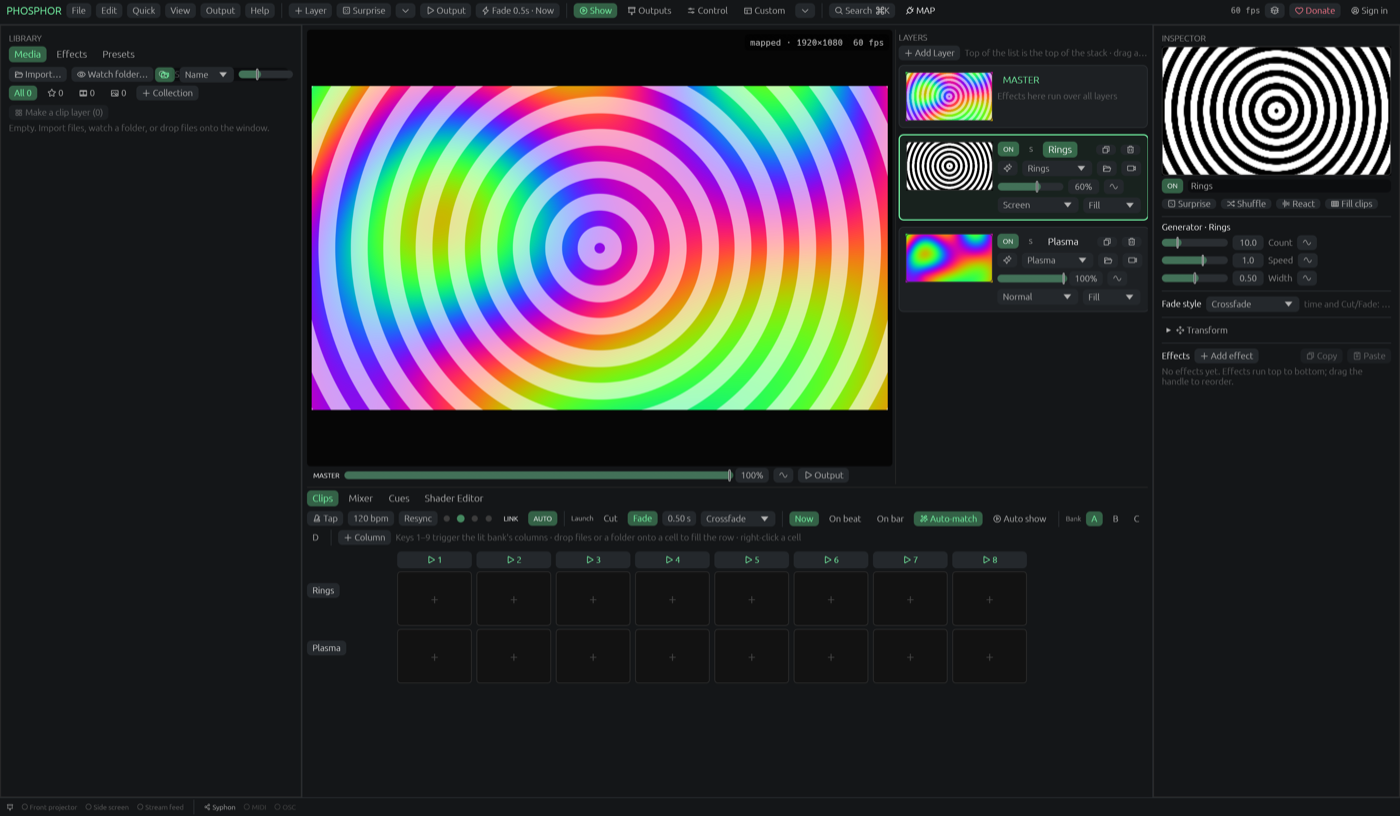
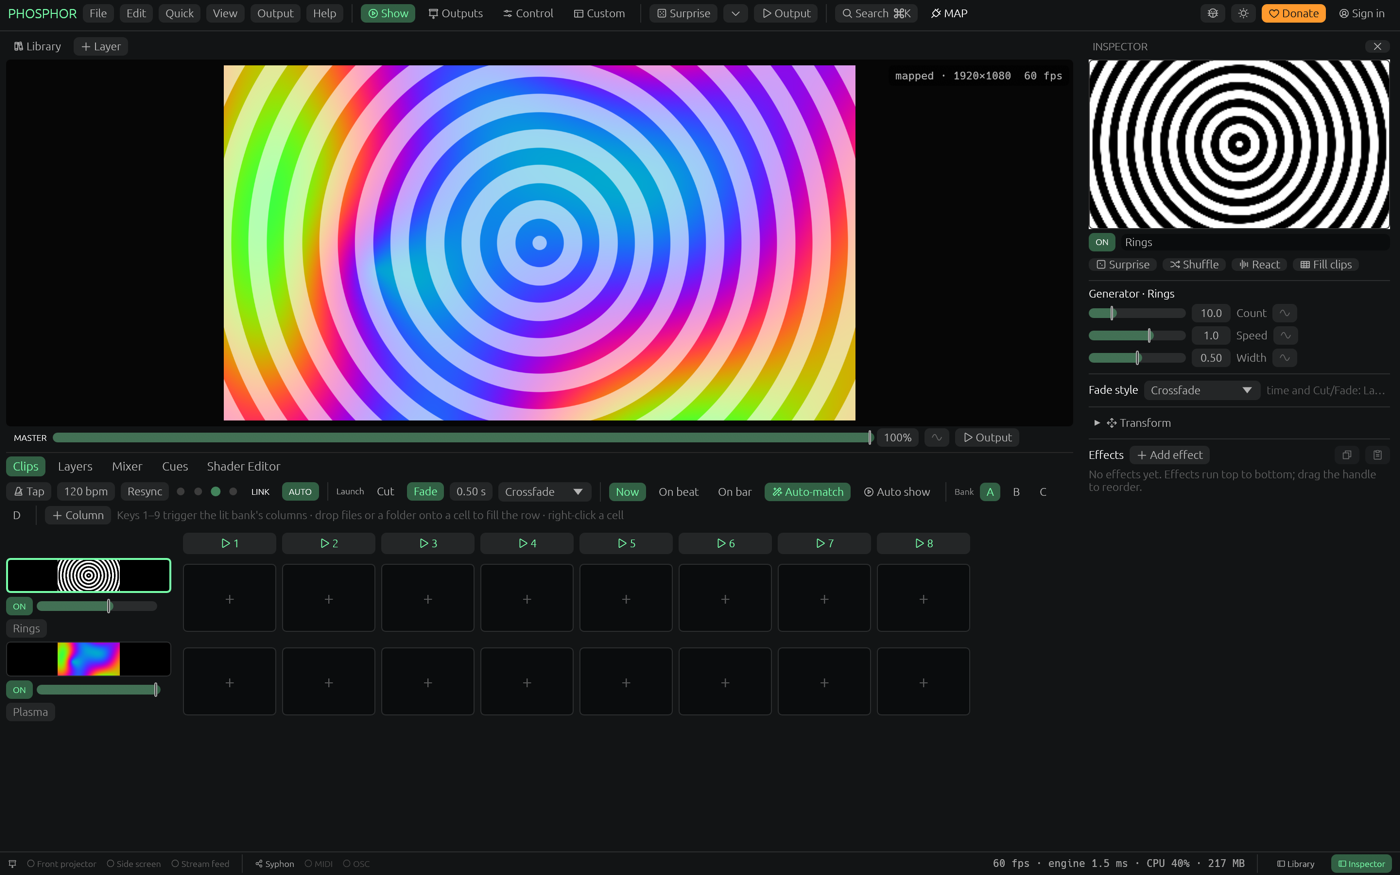
0.2.57: concise Show (preview + clip rows that are the layers: picture, ON, opacity), Inspector only when selected, Library drawer, Outputs/Control full-screen modes with Done; media View menu

diff --git a/crates/phosphor/src/app/areas.rs b/crates/phosphor/src/app/areas.rs
@@ -9,14 +9,14 @@ use super::PhosphorApp;
 use crate::panels::{self, Tab};
 
 /// Which tabs each area's stage shows under its main view (the first is the default).
-const SHOW_BOTTOM: &[Tab] = &[Tab::Clips, Tab::Mixer, Tab::Cues, Tab::ShaderEditor];
+const SHOW_BOTTOM: &[Tab] = &[Tab::Clips, Tab::Layers, Tab::Mixer, Tab::Cues, Tab::ShaderEditor];
 const OUTPUTS_BOTTOM: &[Tab] = &[Tab::Output, Tab::Stream, Tab::Network, Tab::Leds, Tab::Audio, Tab::Devices];
 const LIBRARY: &[Tab] = &[Tab::Media, Tab::Library, Tab::Presets];
 
 /// Where a panel lives in the areas: (area, sub-tab group it belongs to).
 pub(crate) fn area_of(tab: Tab) -> Option<usize> {
     match tab {
-        Tab::Preview | Tab::Layers | Tab::Inspector => Some(0),
+        Tab::Preview | Tab::Inspector => Some(0),
         t if SHOW_BOTTOM.contains(&t) => Some(0),
         Tab::Studio | Tab::Mapping => Some(1),
         t if OUTPUTS_BOTTOM.contains(&t) => Some(1),
@@ -38,7 +38,8 @@ pub(crate) struct AreaTabs {
 
 impl Default for AreaTabs {
     fn default() -> Self {
-        Self { library: Tab::Media, show_bottom: Tab::Clips, outputs_bottom: Tab::Output, show_library: true, show_inspector: true }
+        // The Library is a drawer (closed until you open it); the Inspector shows while something is selected.
+        Self { library: Tab::Media, show_bottom: Tab::Clips, outputs_bottom: Tab::Output, show_library: false, show_inspector: true }
     }
 }
 
@@ -66,45 +67,75 @@ fn heading(ui: &mut egui::Ui, text: &str) {
     ui.label(RichText::new(text.to_uppercase()).size(11.0).strong().color(Color32::from_gray(140)));
 }
 
+/// What the stage asked for this frame.
+#[derive(Default)]
+struct StageAsk {
+    /// Back to Show (the Done button of Outputs / Control).
+    done: bool,
+}
+
+/// A mode's title bar: "Done" back to Show, and what this mode is for.
+fn mode_bar(ui: &mut egui::Ui, title: &str, about: &str, ask: &mut StageAsk) {
+    ui.horizontal(|ui| {
+        if ui.button(RichText::new(format!("{} Done", egui_phosphor::regular::ARROW_LEFT)).strong()).on_hover_text("Back to the show (⌘1)").clicked() {
+            ask.done = true;
+        }
+        ui.label(RichText::new(title).strong().size(14.0));
+        crate::ui::hint(ui, about);
+    });
+    ui.add_space(4.0);
+}
+
 /// The middle of an area.
-fn stage(ui: &mut egui::Ui, area: usize, both: &mut (&mut crate::app::State, &mut AreaTabs)) {
+fn stage(ui: &mut egui::Ui, area: usize, both: &mut (&mut crate::app::State, &mut AreaTabs), ask: &mut StageAsk) {
     match area {
-        0 => crate::ui::split_vertical(
-            ui,
-            "show_bottom",
-            0.4,
-            140.0,
-            both,
-            |ui, (st, _)| {
-                crate::ui::split_horizontal(ui, "show_layers", 0.3, 310.0, *st, |ui, st| panels::draw_tab(ui, st, Tab::Preview), |ui, st| {
-                    heading(ui, "Layers");
-                    panels::draw_tab(ui, st, Tab::Layers);
-                })
-            },
-            |ui, (st, tabs)| {
-                sub_tabs(ui, &mut tabs.show_bottom, SHOW_BOTTOM);
-                panels::draw_tab(ui, st, tabs.show_bottom);
-            },
-        ),
-        1 => crate::ui::split_vertical(ui, "outputs_bottom", 0.32, 120.0, both, |ui, (st, _)| panels::studio_stage(ui, st), |ui, (st, tabs)| {
-            sub_tabs(ui, &mut tabs.outputs_bottom, OUTPUTS_BOTTOM);
-            scrolled(ui, "outputs_bottom", |ui| panels::draw_tab(ui, st, tabs.outputs_bottom));
-        }),
-        _ => crate::ui::split_horizontal(
-            ui,
-            "control",
-            0.58,
-            320.0,
-            &mut *both.0,
-            |ui, st| {
-                heading(ui, "MIDI / OSC / TouchOSC");
-                panels::draw_tab(ui, st, Tab::Control);
-            },
-            |ui, st| {
-                heading(ui, "Control Surface");
-                panels::draw_tab(ui, st, Tab::Surface);
-            },
-        ),
+        0 => {
+            // Show: one screen. A slim toolbar, the preview, then the clip grid whose rows are the layers.
+            ui.horizontal(|ui| {
+                let tabs = &mut *both.1;
+                ui.toggle_value(&mut tabs.show_library, format!("{} Library", egui_phosphor::regular::BOOKS)).on_hover_text("Media, effects and presets: drag them onto layers and clips");
+                if ui.button(format!("{} Layer", egui_phosphor::regular::PLUS)).on_hover_text("Add a layer (a new clip row)").clicked() {
+                    both.0.add_layer();
+                }
+            });
+            crate::ui::split_vertical(
+                ui,
+                "show_bottom",
+                0.5,
+                160.0,
+                both,
+                |ui, (st, _)| panels::draw_tab(ui, st, Tab::Preview),
+                |ui, (st, tabs)| {
+                    sub_tabs(ui, &mut tabs.show_bottom, SHOW_BOTTOM);
+                    panels::draw_tab(ui, st, tabs.show_bottom);
+                },
+            )
+        }
+        1 => {
+            mode_bar(ui, "Outputs", "every projector, screen and feed; mapping; streaming; inputs", ask);
+            crate::ui::split_vertical(ui, "outputs_bottom", 0.32, 120.0, both, |ui, (st, _)| panels::studio_stage(ui, st), |ui, (st, tabs)| {
+                sub_tabs(ui, &mut tabs.outputs_bottom, OUTPUTS_BOTTOM);
+                scrolled(ui, "outputs_bottom", |ui| panels::draw_tab(ui, st, tabs.outputs_bottom));
+            })
+        }
+        _ => {
+            mode_bar(ui, "Control", "MIDI, OSC, TouchOSC, keys, your Control Surface", ask);
+            crate::ui::split_horizontal(
+                ui,
+                "control",
+                0.58,
+                320.0,
+                &mut *both.0,
+                |ui, st| {
+                    heading(ui, "MIDI / OSC / TouchOSC");
+                    panels::draw_tab(ui, st, Tab::Control);
+                },
+                |ui, st| {
+                    heading(ui, "Control Surface");
+                    panels::draw_tab(ui, st, Tab::Surface);
+                },
+            )
+        }
     }
 }
 
@@ -115,10 +146,13 @@ impl PhosphorApp {
         let tabs = &mut self.area_tabs;
         let st = &mut self.state;
         // Side columns: their width changes only when you drag their edge, capped at about a quarter of the window
-        // each, so the stage keeps its room; their content can't push them wider.
+        // each, so the stage keeps its room; their content can't push them wider. The Library is a drawer in Show;
+        // the Inspector shows in Show while something is selected (× closes it).
         let w = ui.available_width();
-        let left = tabs.show_library.then_some((250.0f32.min(w * 0.22), 170.0, (w * 0.22).max(180.0)));
-        let right = tabs.show_inspector.then_some((330.0f32.min(w * 0.26), 220.0, (w * 0.26).max(220.0)));
+        let selected = st.selected.is_some();
+        let left = (area == 0 && tabs.show_library).then_some((250.0f32.min(w * 0.22), 170.0, (w * 0.22).max(180.0)));
+        let right = (tabs.show_inspector && (area != 0 || selected)).then_some((330.0f32.min(w * 0.26), 220.0, (w * 0.26).max(220.0)));
+        let mut ask = StageAsk::default();
         let mut both = (st, tabs);
         crate::ui::columns(
             ui,
@@ -127,16 +161,32 @@ impl PhosphorApp {
             right,
             &mut both,
             |ui, (st, tabs)| {
-                heading(ui, "Library");
+                ui.horizontal(|ui| {
+                    heading(ui, "Library");
+                    ui.with_layout(egui::Layout::right_to_left(egui::Align::Center), |ui| {
+                        if ui.small_button(egui_phosphor::regular::X).on_hover_text("Close the Library").clicked() {
+                            tabs.show_library = false;
+                        }
+                    });
+                });
                 sub_tabs(ui, &mut tabs.library, LIBRARY);
                 panels::draw_tab(ui, st, tabs.library);
             },
-            |ui, both| stage(ui, area, both),
+            |ui, both| stage(ui, area, both, &mut ask),
             |ui, (st, _)| {
-                heading(ui, match area {
-                    1 => "Output",
-                    2 => "Modulators",
-                    _ => "Inspector",
+                ui.horizontal(|ui| {
+                    heading(ui, match area {
+                        1 => "Output",
+                        2 => "Modulators",
+                        _ => "Inspector",
+                    });
+                    if area == 0 {
+                        ui.with_layout(egui::Layout::right_to_left(egui::Align::Center), |ui| {
+                            if ui.small_button(egui_phosphor::regular::X).on_hover_text("Close (click a layer to edit it again)").clicked() {
+                                st.selected = None;
+                            }
+                        });
+                    }
                 });
                 match area {
                     1 => scrolled(ui, "area_inspector_out", |ui| panels::studio_properties(ui, st)),
@@ -145,6 +195,9 @@ impl PhosphorApp {
                 }
             },
         );
+        if ask.done {
+            self.switch_workspace(0);
+        }
     }
 
     /// Something asked for a panel: in the areas, go to the area that has it (choosing its sub-tab), or open it
@@ -159,7 +212,12 @@ impl PhosphorApp {
                     self.area_tabs.outputs_bottom = tab;
                 }
             }
-            None if LIBRARY.contains(&tab) => self.area_tabs.library = tab,
+            None if LIBRARY.contains(&tab) => {
+                // The Library is a drawer in Show: open it there.
+                self.workspace = Some(0);
+                self.area_tabs.library = tab;
+                self.area_tabs.show_library = true;
+            }
             None => self.detach(tab),
         }
     }

diff --git a/crates/phosphor/src/panels/clips.rs b/crates/phosphor/src/panels/clips.rs
@@ -160,13 +160,13 @@ pub(crate) fn clips(ui: &mut egui::Ui, st: &mut State) {
     let mut fill_row: Option<u64> = None;
     {
         let drag_at = crate::app::file_drag_point(ui.ctx());
-        let State { comp, thumbs, clip_cells, preview_wants, preview_keys, preview_textures, .. } = st;
+        let State { comp, thumbs, clip_cells, preview_wants, preview_keys, preview_textures, layer_textures, selected, .. } = st;
         let ctx = ui.ctx().clone();
         let thumb_h = (crate::thumbs::THUMB_W as f32 / aspect).max(1.0) as u32;
         egui::ScrollArea::both().auto_shrink(false).show(ui, |ui| {
             // Column headers trigger whole columns.
             ui.horizontal(|ui| {
-                ui.allocate_exact_size(egui::vec2(110.0, 22.0), Sense::hover());
+                ui.allocate_exact_size(egui::vec2(ROW_HEADER_W, 22.0), Sense::hover());
                 for c in 0..cols {
                     let keyed = c / CLIP_PAGE_SIZE == bank;
                     let text = RichText::new(format!("{} {}", icon::PLAY, c + 1));
@@ -184,7 +184,8 @@ pub(crate) fn clips(ui: &mut egui::Ui, st: &mut State) {
             for idx in (0..n).rev() {
                 let layer = &mut comp.layers[idx];
                 ui.horizontal(|ui| {
-                    let (fill, beat_all) = row_header(ui, layer, egui::vec2(110.0, cell.y));
+                    let thumb = layer_textures.get(&layer.id).map(|(t, _)| *t);
+                    let (fill, beat_all) = row_header(ui, layer, thumb, selected, egui::vec2(ROW_HEADER_W, cell.y));
                     if fill {
                         fill_row = Some(layer.id);
                     }
@@ -392,14 +393,42 @@ pub(crate) fn clips(ui: &mut egui::Ui, st: &mut State) {
 /// The layer's name at the start of its clip row; click for autopilot (plays the next / a random clip by itself).
 /// The layer name at the start of a clip row: click for autopilot and "fill with variations" (returns true for that).
 /// The layer's name at the start of its clip row, with its menu. Returns (fill the row, match every clip's beat).
-fn row_header(ui: &mut egui::Ui, layer: &mut phosphor_engine::LayerState, size: egui::Vec2) -> (bool, bool) {
+/// Width of the layer strip at the start of each clip row.
+const ROW_HEADER_W: f32 = 176.0;
+
+/// The start of a clip row is the layer itself: its live picture (click = select it, the Inspector opens), its name
+/// (menu: autopilot, fill, match the beat), ON and opacity. Returns (fill the row, match every clip's beat).
+fn row_header(ui: &mut egui::Ui, layer: &mut phosphor_engine::LayerState, thumb: Option<egui::TextureId>, selected: &mut Option<u64>, size: egui::Vec2) -> (bool, bool) {
     use phosphor_engine::Autopilot;
     let mut fill = false;
     let mut beat_all = false;
+    let is_selected = *selected == Some(layer.id);
     ui.allocate_ui_with_layout(size, egui::Layout::top_down(egui::Align::Min), |ui| {
         ui.set_min_size(size);
-        ui.add_space((size.y - 40.0).max(0.0) / 2.0);
-        let name: String = layer.name.chars().take(14).collect();
+        ui.set_max_width(size.x);
+        // Live picture: click to select (and edit in the Inspector).
+        let pic_h = (size.y - 34.0).clamp(24.0, 60.0);
+        let (pic, r) = ui.allocate_exact_size(egui::vec2(size.x - 6.0, pic_h), Sense::click());
+        let p = ui.painter();
+        p.rect_filled(pic, 4.0, Color32::BLACK);
+        if let Some(t) = thumb.filter(|_| layer.enabled) {
+            paint_texture(p, t, fit_rect(pic, 16.0 / 9.0));
+        }
+        let border = if is_selected { accent() } else if r.hovered() { ui.visuals().widgets.hovered.bg_stroke.color } else { ui.visuals().widgets.noninteractive.bg_stroke.color };
+        p.rect_stroke(pic, 4.0, Stroke::new(if is_selected { 2.0 } else { 1.0 }, border), StrokeKind::Inside);
+        if r.on_hover_text("Click to edit this layer (Inspector)").clicked() {
+            *selected = Some(layer.id);
+        }
+        // ON + opacity under the picture.
+        ui.horizontal(|ui| {
+            ui.spacing_mut().item_spacing.x = 4.0;
+            ui.toggle_value(&mut layer.enabled, RichText::new("ON").small()).on_hover_text("Layer on / off");
+            ui.spacing_mut().slider_width = (size.x - 52.0).max(40.0);
+            let o = guarded!(ui, layer.opacity, egui::Slider::new(&mut layer.opacity, 0.0..=1.0).show_value(false)).on_hover_text("Opacity");
+            mapped_badge(ui, &o, &ControlTarget::LayerOpacity(layer.id));
+            value_bubble(ui, &o, format!("{:.0}%", layer.opacity * 100.0));
+        });
+        let name: String = layer.name.chars().take(20).collect();
         ui.menu_button(RichText::new(name).color(ui.visuals().text_color()), |ui| {
             ui.set_min_width(220.0);
             let q = crate::app::Quick::Fill;

diff --git a/crates/phosphor/src/panels/media.rs b/crates/phosphor/src/panels/media.rs
@@ -72,19 +72,22 @@ pub(crate) fn media(ui: &mut egui::Ui, st: &mut State) {
                 ui.spinner();
             }
         }
-        ui.toggle_value(&mut st.media_view.by_folder, icon::FOLDERS).on_hover_text("Group by folder");
-        let sort_name = match st.media_view.sort {
-            MediaSort::Name => "Name",
-            MediaSort::Newest => "Newest",
-            MediaSort::Type => "Type",
-        };
-        ComboBox::from_id_salt("media_sort").width(70.0).selected_text(sort_name).show_ui(ui, |ui| {
-            ui.selectable_value(&mut st.media_view.sort, MediaSort::Name, "Name");
-            ui.selectable_value(&mut st.media_view.sort, MediaSort::Newest, "Newest");
-            ui.selectable_value(&mut st.media_view.sort, MediaSort::Type, "Type");
-        });
-        ui.spacing_mut().slider_width = 70.0;
-        guarded!(ui, st.media_view.tile, Slider::new(&mut st.media_view.tile, 72.0..=240.0).show_value(false)).on_hover_text("Thumbnail size");
+        // Sorting, grouping and tile size in one menu, so this row fits any column.
+        ui.menu_button(label(icon::SLIDERS_HORIZONTAL, "View"), |ui| {
+            ui.set_min_width(200.0);
+            ui.label(RichText::new("Sort by").strong());
+            ui.horizontal(|ui| {
+                ui.selectable_value(&mut st.media_view.sort, MediaSort::Name, "Name");
+                ui.selectable_value(&mut st.media_view.sort, MediaSort::Newest, "Newest");
+                ui.selectable_value(&mut st.media_view.sort, MediaSort::Type, "Type");
+            });
+            ui.checkbox(&mut st.media_view.by_folder, "Group by folder");
+            ui.label(RichText::new("Tile size").strong());
+            ui.spacing_mut().slider_width = 160.0;
+            guarded!(ui, st.media_view.tile, Slider::new(&mut st.media_view.tile, 72.0..=240.0).show_value(false));
+        })
+        .response
+        .on_hover_text("Sort, group by folder, tile size");
     });
     // Row 3: filters and collections.
     let mut acts: Vec<MediaAct> = Vec::new();

diff --git a/CHANGELOG.md b/CHANGELOG.md
@@ -4,6 +4,15 @@ What changed in each Phosphor release, newest first. Downloads are on the
 [releases page](https://github.com/fillinthe/phosphor/releases); Phosphor also finds and installs updates itself
 (Help › Check for Updates…).
 
+## 0.2.57 (2026-10-19)
+- **Simpler Show screen:** a big preview with the clip grid under it, and each clip row starts with its layer:
+  live picture, ON and opacity. Click a layer's picture to edit it in the Inspector, which only shows while
+  something is selected (× closes it). The Layers list is still one click away, next to Clips.
+- **The Library is a drawer:** open it with the Library button when you need media, effects or presets.
+- **Outputs and Control are full-screen modes** with a *Done* button back to the show.
+- The Library's sort, group-by-folder and tile size are in one *View* menu (nothing cropped).
+- **Custom** still lets you arrange every panel yourself.
+
 ## 0.2.56 (2026-10-19)
 - **Interface brightness:** the sun button in the top bar sets how dark or light Phosphor looks, from *Darkest*
   (for dark rooms and shows) through *Dark* (the usual) and *Dim* to *Soft light* and *Light* (daylight), or
